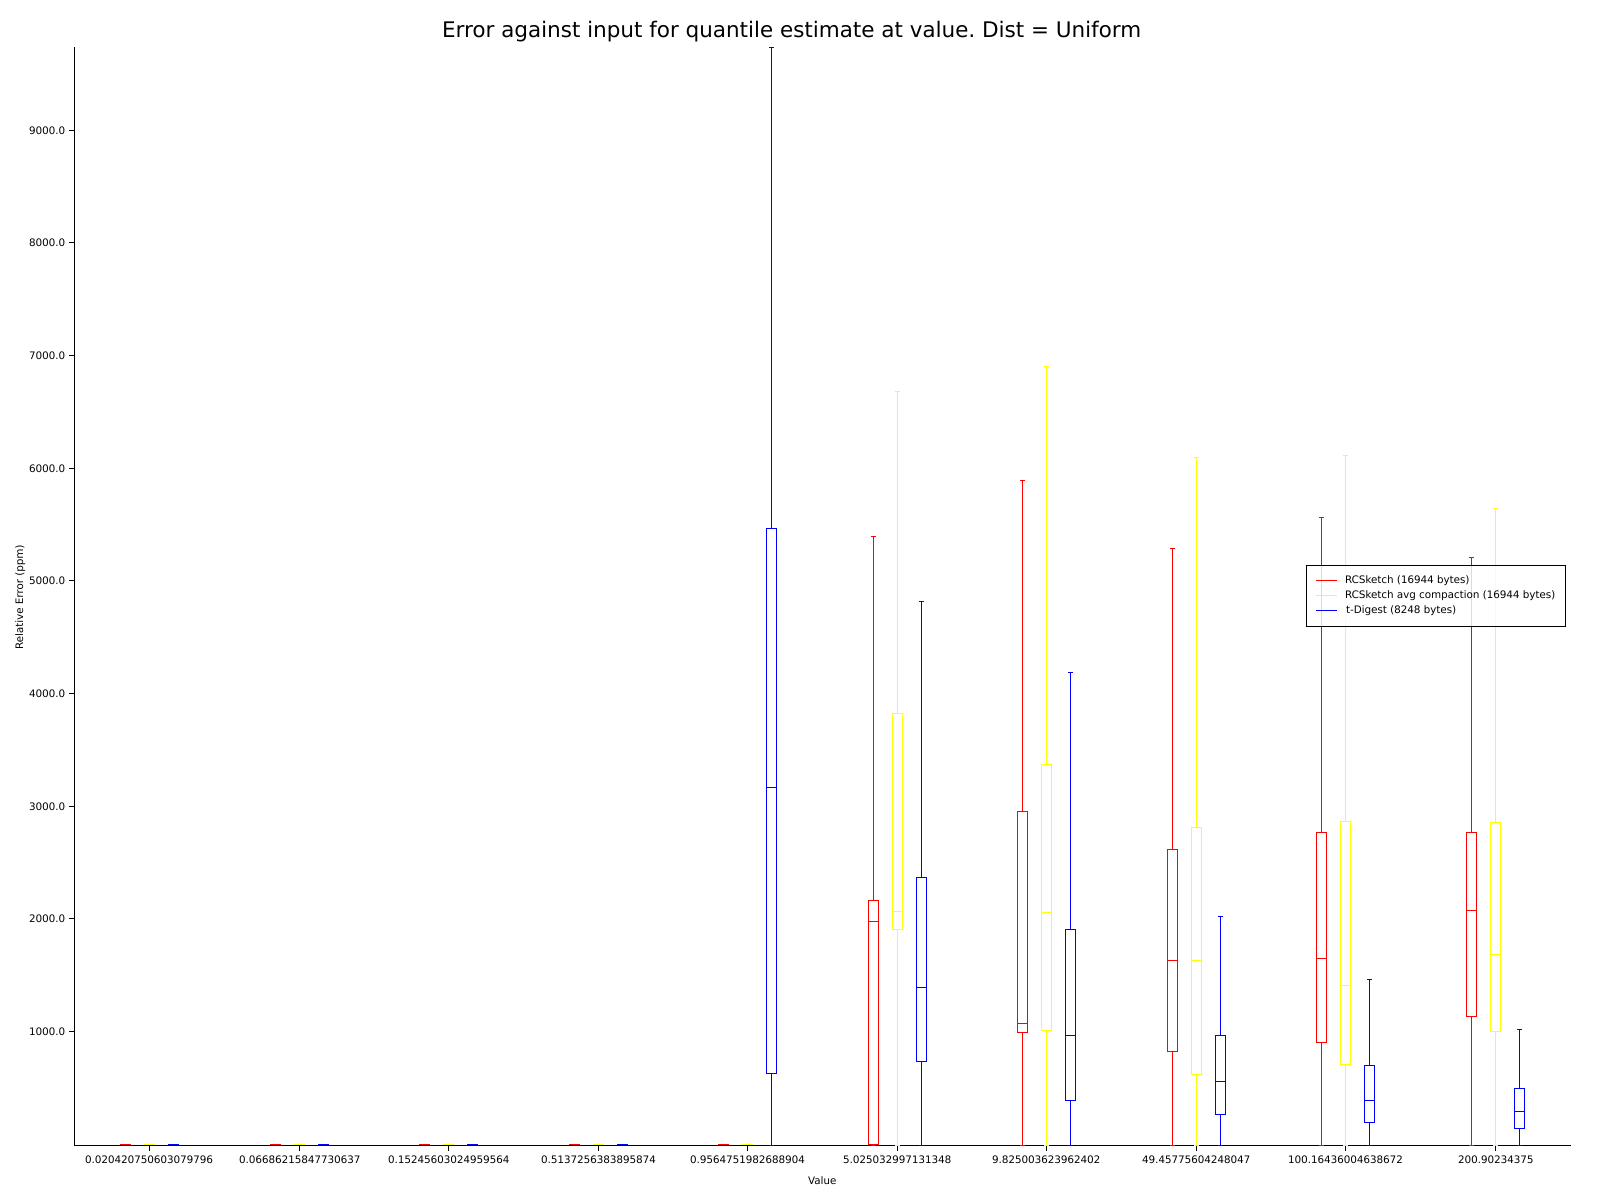
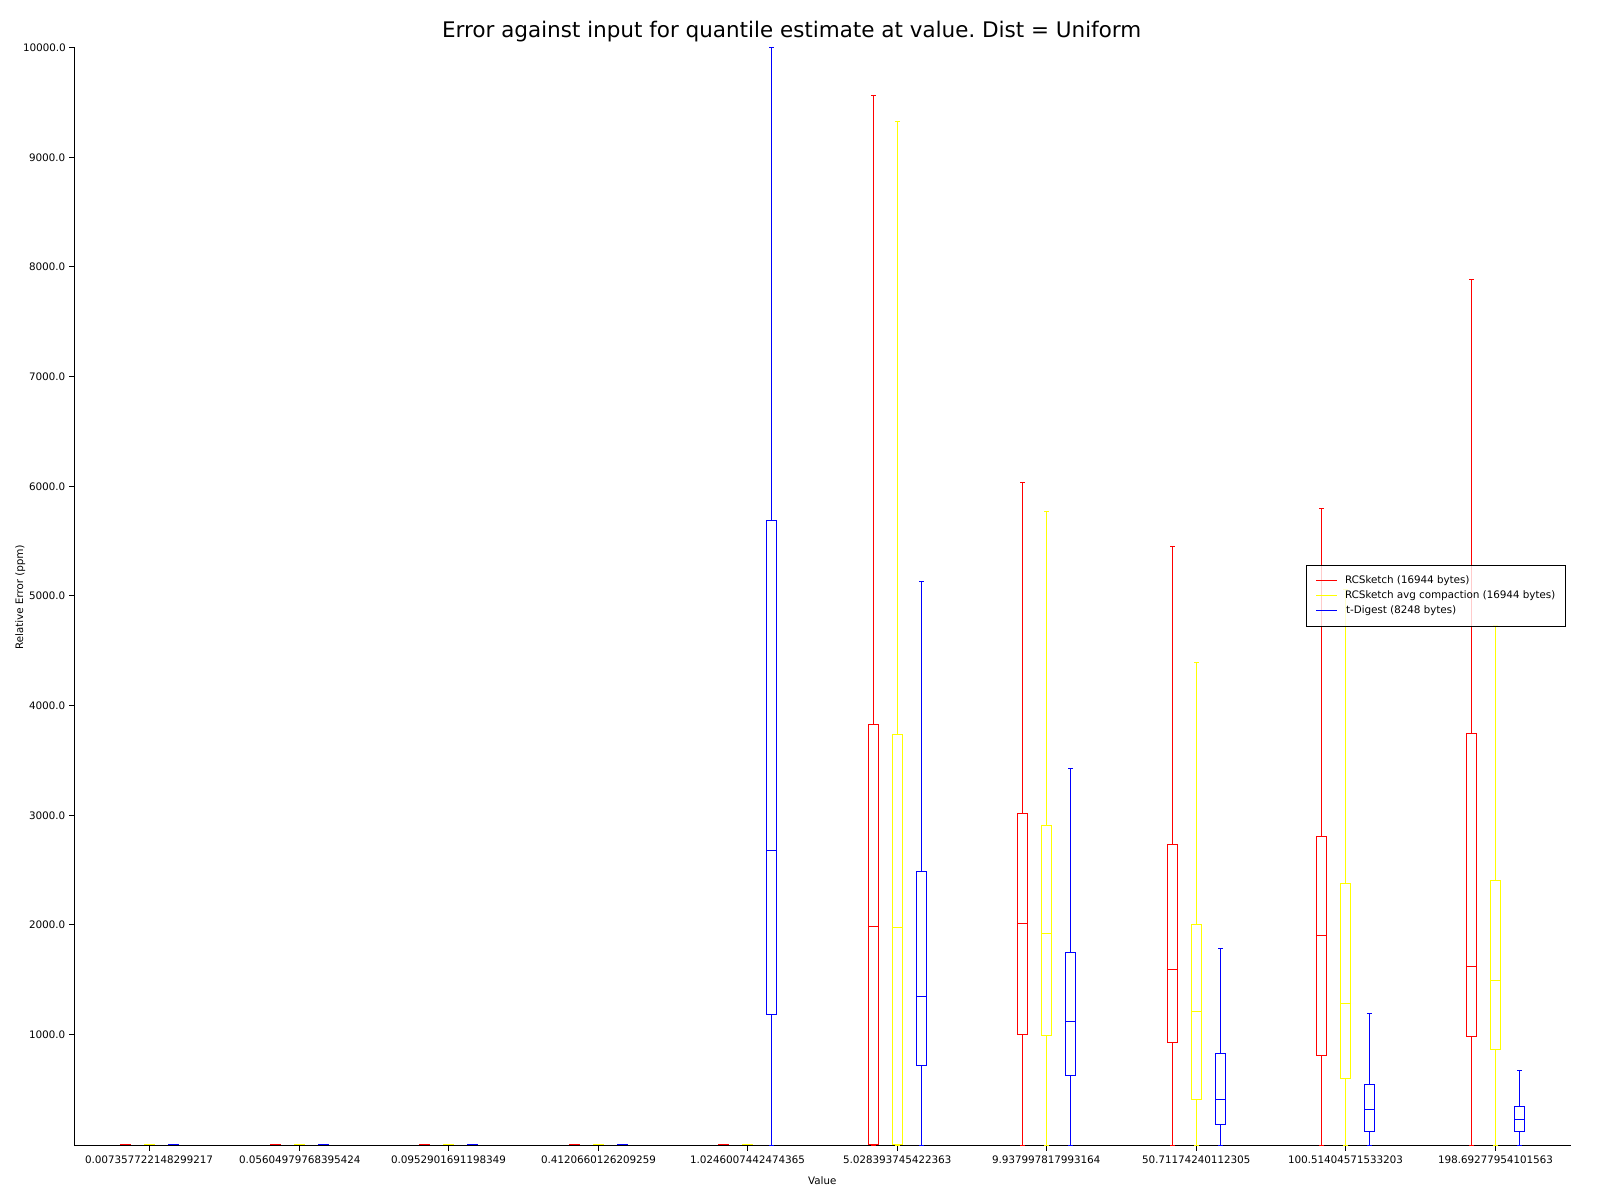
Experiment with RC using T Digest to interpolate\nDoesn't work particularly much better

diff --git a/src/relative_compactor.rs b/src/relative_compactor.rs
@@ -1,5 +1,6 @@
+use crate::t_digest::{centroid::Centroid, scale_functions, t_digest::TDigest};
 use crate::traits::{Digest, OwnedSize};
-use num_traits::{cast::ToPrimitive, Float};
+use num_traits::{cast::ToPrimitive, Float, NumAssignOps};
 use rand_distr::{Distribution, Uniform};
 use std::cmp::Ordering;
 
@@ -46,7 +47,7 @@ where
 
 impl<F> Digest<F> for RCSketch<F>
 where
-    F: Float + ToPrimitive,
+    F: Float + ToPrimitive + Send + Sync + NumAssignOps,
 {
     fn add(&mut self, item: F) {
         // Insert into the bottom buffer
@@ -147,7 +148,7 @@ where
 
 impl<F> RCSketch<F>
 where
-    F: Float + ToPrimitive,
+    F: Float + ToPrimitive + Send + Sync + NumAssignOps,
 {
     /// Create a new `RCSketch`
     /// # Arguments
@@ -344,9 +345,17 @@ where
     /// # Arguments
     /// * `rank_item` Item to estimate the rank of
     pub fn interpolate_rank(&self, rank_item: F) -> usize {
-        let mut rank = 0;
+        let mut centroids: Vec<Centroid<F>> = vec![];
         for i in 0..self.buffers.len() {
-            rank += self.buffers[i].iter().filter(|x| **x <= rank_item).count() * (1 << i);
+            centroids.extend(
+                self.buffers[i]
+                    .iter()
+                    .map(|x| Centroid {
+                        mean: *x,
+                        weight: F::from(1 << i).unwrap(),
+                    })
+                    .collect::<Vec<Centroid<F>>>(),
+            );
             // let less_than = self.buffers[i].iter().filter(|x| **x < rank_item).count() * (1 << i);
             // let mut cloned_buffer = self.buffers[i].clone();
             // cloned_buffer.sort_by(|a, b| a.partial_cmp(b).unwrap());
@@ -366,7 +375,15 @@ where
             // }
             // rank += (self.buffers[i].iter().filter(|x| **x == rank_item).count() * (1 << i)) / 2;
         }
-        rank
+        let mut digest = TDigest::new(
+            scale_functions::k2_asym,
+            scale_functions::inv_k2_asym,
+            F::from(100).unwrap() * F::from(self.k).unwrap(),
+        );
+        digest.add_centroid_buffer(centroids);
+        (digest.est_quantile_at_value(rank_item) * F::from(self.count).unwrap())
+            .to_usize()
+            .unwrap()
     }
 }
 

diff --git a/src/sym_digest.rs b/src/sym_digest.rs
@@ -88,12 +88,12 @@ mod test {
     use crate::util::gen_asc_vec;
     use crate::util::linear_digest::LinearDigest;
     use approx::assert_relative_eq;
-    use num_traits::Float;
+    use num_traits::{Float, NumAssignOps};
     use rand::distributions::{Distribution, Uniform};
 
     fn new_symdigest<F>(input_size: usize, acc_param: usize) -> SymDigest<RCSketch<F>>
     where
-        F: Float,
+        F: Float + Send + Sync + NumAssignOps,
     {
         SymDigest::new(
             RCSketch::new(input_size, acc_param),

diff --git a/examples/accuracy.rs b/examples/accuracy.rs
@@ -1775,8 +1775,8 @@ where
 }
 
 fn main() {
-    // value_error_against_quantile::<f32>();
-    // quantile_error_against_value::<f32>();
+    value_error_against_quantile::<f32>();
+    quantile_error_against_value::<f32>();
     // determine_required_parameter::<f32>();
     // determine_required_parameter::<f64>();
     // plot_error_against_mem_usage::<f32>();
